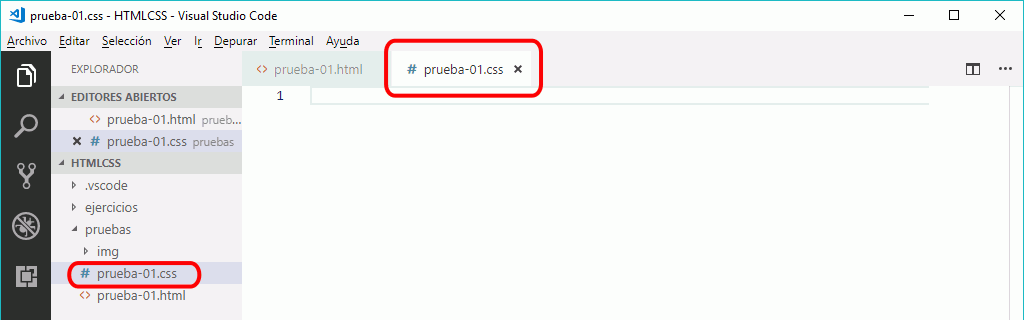
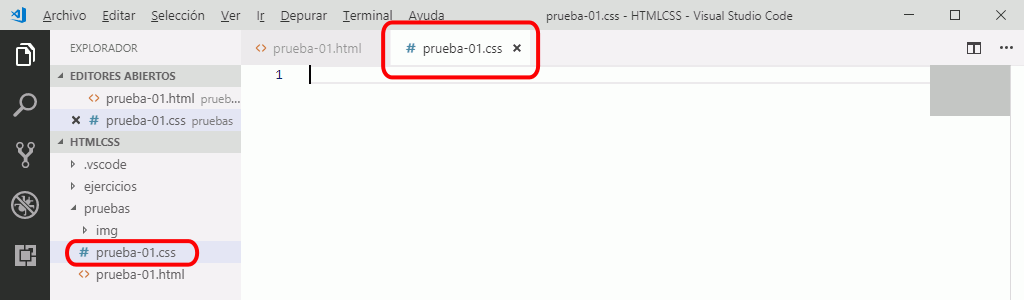
Actualizo VSCode Uso y añado apartado Mostrar minimapa

Changed region(s): [[0.0, 0.0, 1.0, 0.96]]

diff --git a/lecciones/vsc-uso.html b/lecciones/vsc-uso.html
@@ -27,6 +27,7 @@
       <ul>
         <li><a href="#interfaz">Interfaz de usuario</a></li>
         <li><a href="#abrir-enlace">Abrir enlace</a></li>
+        <li><a href="#minimapa">Ocultar / mostrar minimapa</a></li>
         <li><a href="#formatear-codigo">Formatear código</a></li>
         <li><a href="#pegar-codigo">Pegar código</a></li>
         <li><a href="#sangrado-incorrecto">Sangrado incorrecto</a></li>
@@ -40,7 +41,7 @@
     <p>Estos son los elementos principales del interfaz de Visual Studio Code:</p>
 
     <p class="captura">
-      <img src="../img/vscode/vsc-interfaz-11.png" alt="Visual Studio Code. Validación" width="1057" height="604" />
+      <img src="../img/vscode/vsc-interfaz-11.png" alt="Visual Studio Code. Validación" width="1057" height="640" />
     </p>
 
     <p>Referencia: <a href="https://code.visualstudio.com/docs/getstarted/userinterface">Visual Studio Code Docs: User Interface</a></p>
@@ -63,10 +64,38 @@
       </li>
       <li>Al hacer clic en "Crear archivo", el archivo se crea automáticamente y se abre en una nueva pestaña:
         <p class="captura">
-          <img src="../img/vscode/vsc-uso-abrir-enlace-2.png" alt="Visual Studio Code. Abrir enlace" width="1024" height="320" />
+          <img src="../img/vscode/vsc-uso-abrir-enlace-2.png" alt="Visual Studio Code. Abrir enlace" width="1024" height="300" />
         </p>
       </li>
     </ul>
+  </section>
+
+  <section id="minimapa">
+    <h2>Ocultar / mostrar minimapa</h2>
+
+    <p>El minimapa es una imagen reducida de la página web que se muestra en la parte derecha de Visual Studio Code y que permite desplazarse rápidamente a lo largo de un documento.</p>
+
+    <p class="captura">
+      <img src="../img/vscode/vsc-uso-minimapa-1.png" alt="Visual Studio Code. Ocultar / mostrar minimapa" width="1024" height="300" />
+    </p>
+
+    <p>Si el documento no es muy largo (como ocurre en los ejercicios de este curso), el minimapa no resulta demasiado útil, pero ocupa espacio de pantalla.</p>
+
+    <p class="captura">
+      <img src="../img/vscode/vsc-uso-minimapa-2.png" alt="Visual Studio Code. Ocultar / mostrar minimapa" width="1024" height="330" />
+    </p>
+
+    <p>Para ocultar (o mostrar si está oculto) el minimapa, elija la opción de menú <span class="soft-menu">Ver &gt; Alternar minimapa</span>:</p>
+
+    <p class="captura">
+      <img src="../img/vscode/vsc-uso-minimapa-3.png" alt="Visual Studio Code. Ocultar / mostrar minimapa" width="1024" height="540" />
+    </p>
+
+    <p>Una vez oculto el minimapa, la ventana de edición se extenderá hasta el borde derecho:</p>
+
+    <p class="captura">
+      <img src="../img/vscode/vsc-uso-minimapa-4.png" alt="Visual Studio Code. Ocultar / mostrar minimapa" width="1024" height="220" />
+    </p>
   </section>
 
   <section id="formatear-codigo">
@@ -96,7 +125,7 @@
   </section>
 
   <footer>
-    <p class="ultmod">Última modificación de esta página: 28 de septiembre de 2018</p>
+    <p class="ultmod">Última modificación de esta página: 19 de octubre de 2018</p>
 
     <p class="licencia">
       <a rel="license" href="https://creativecommons.org/licenses/by-sa/4.0/deed.es_ES"><img src="../varios/iconos/icono-cc-by-sa.svg" alt="Licencia Creative Commons" title="Licencia Creative Commons BY-SA" width="120" height="42" /></a><br />
